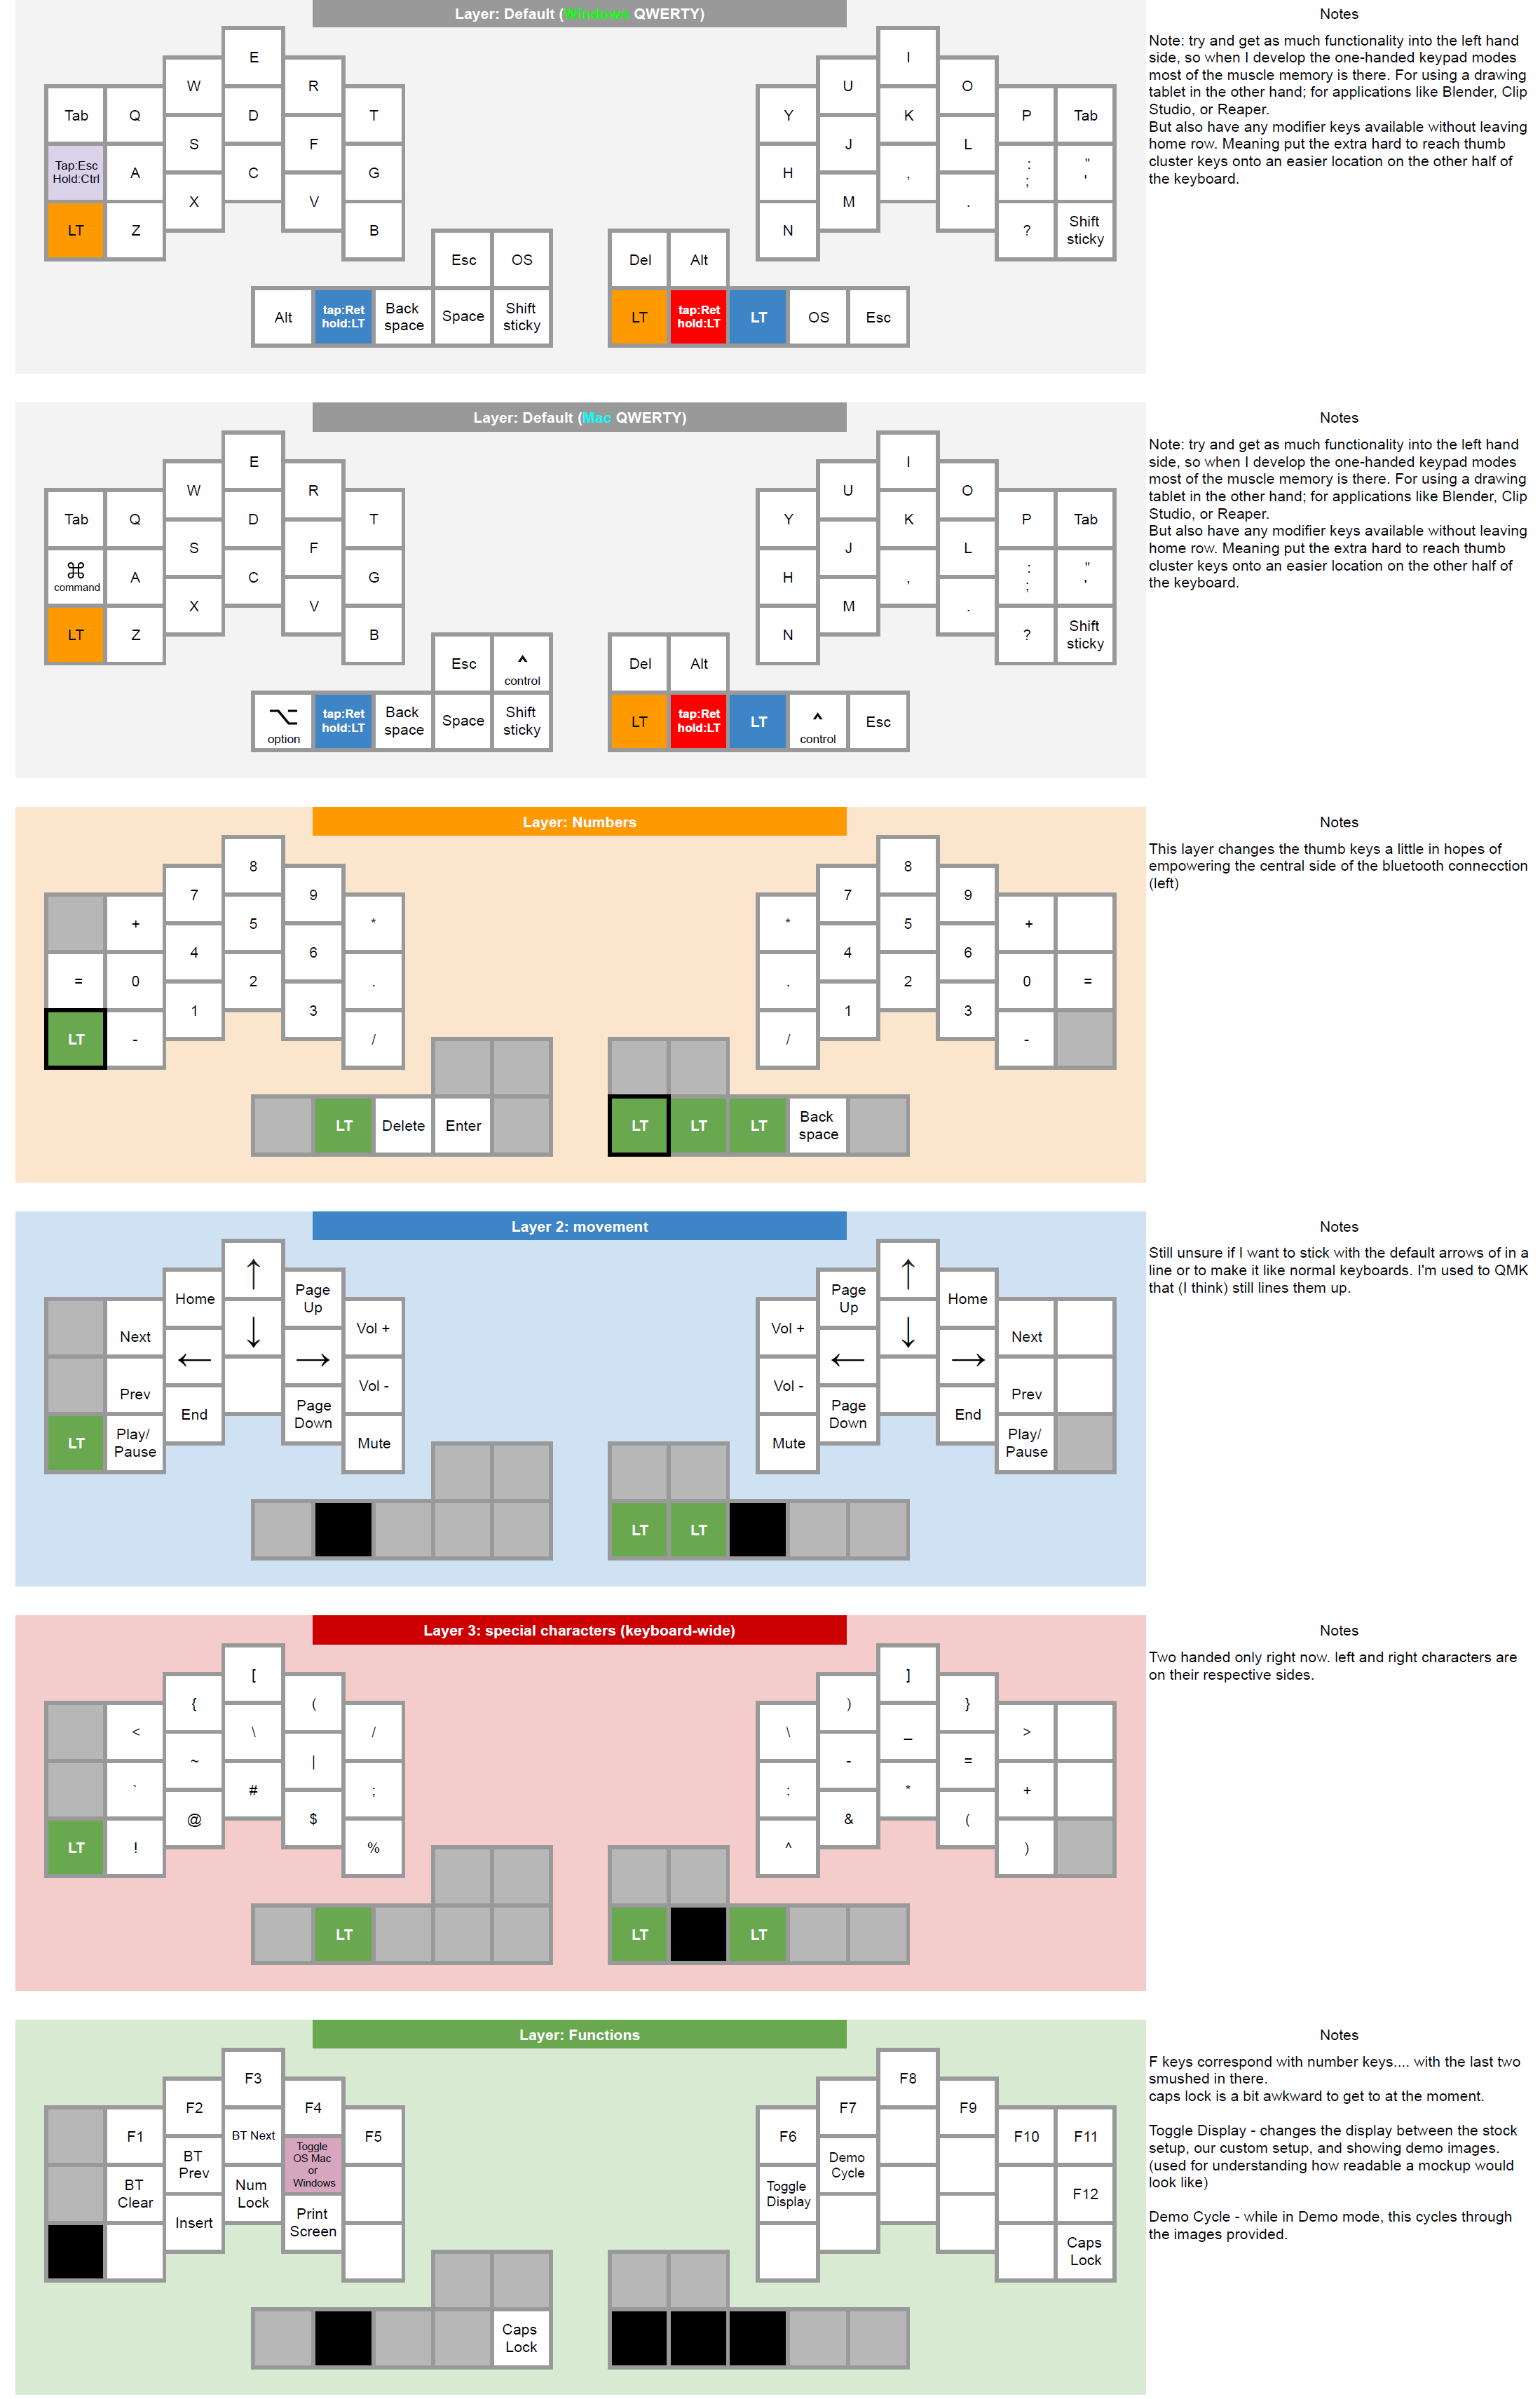
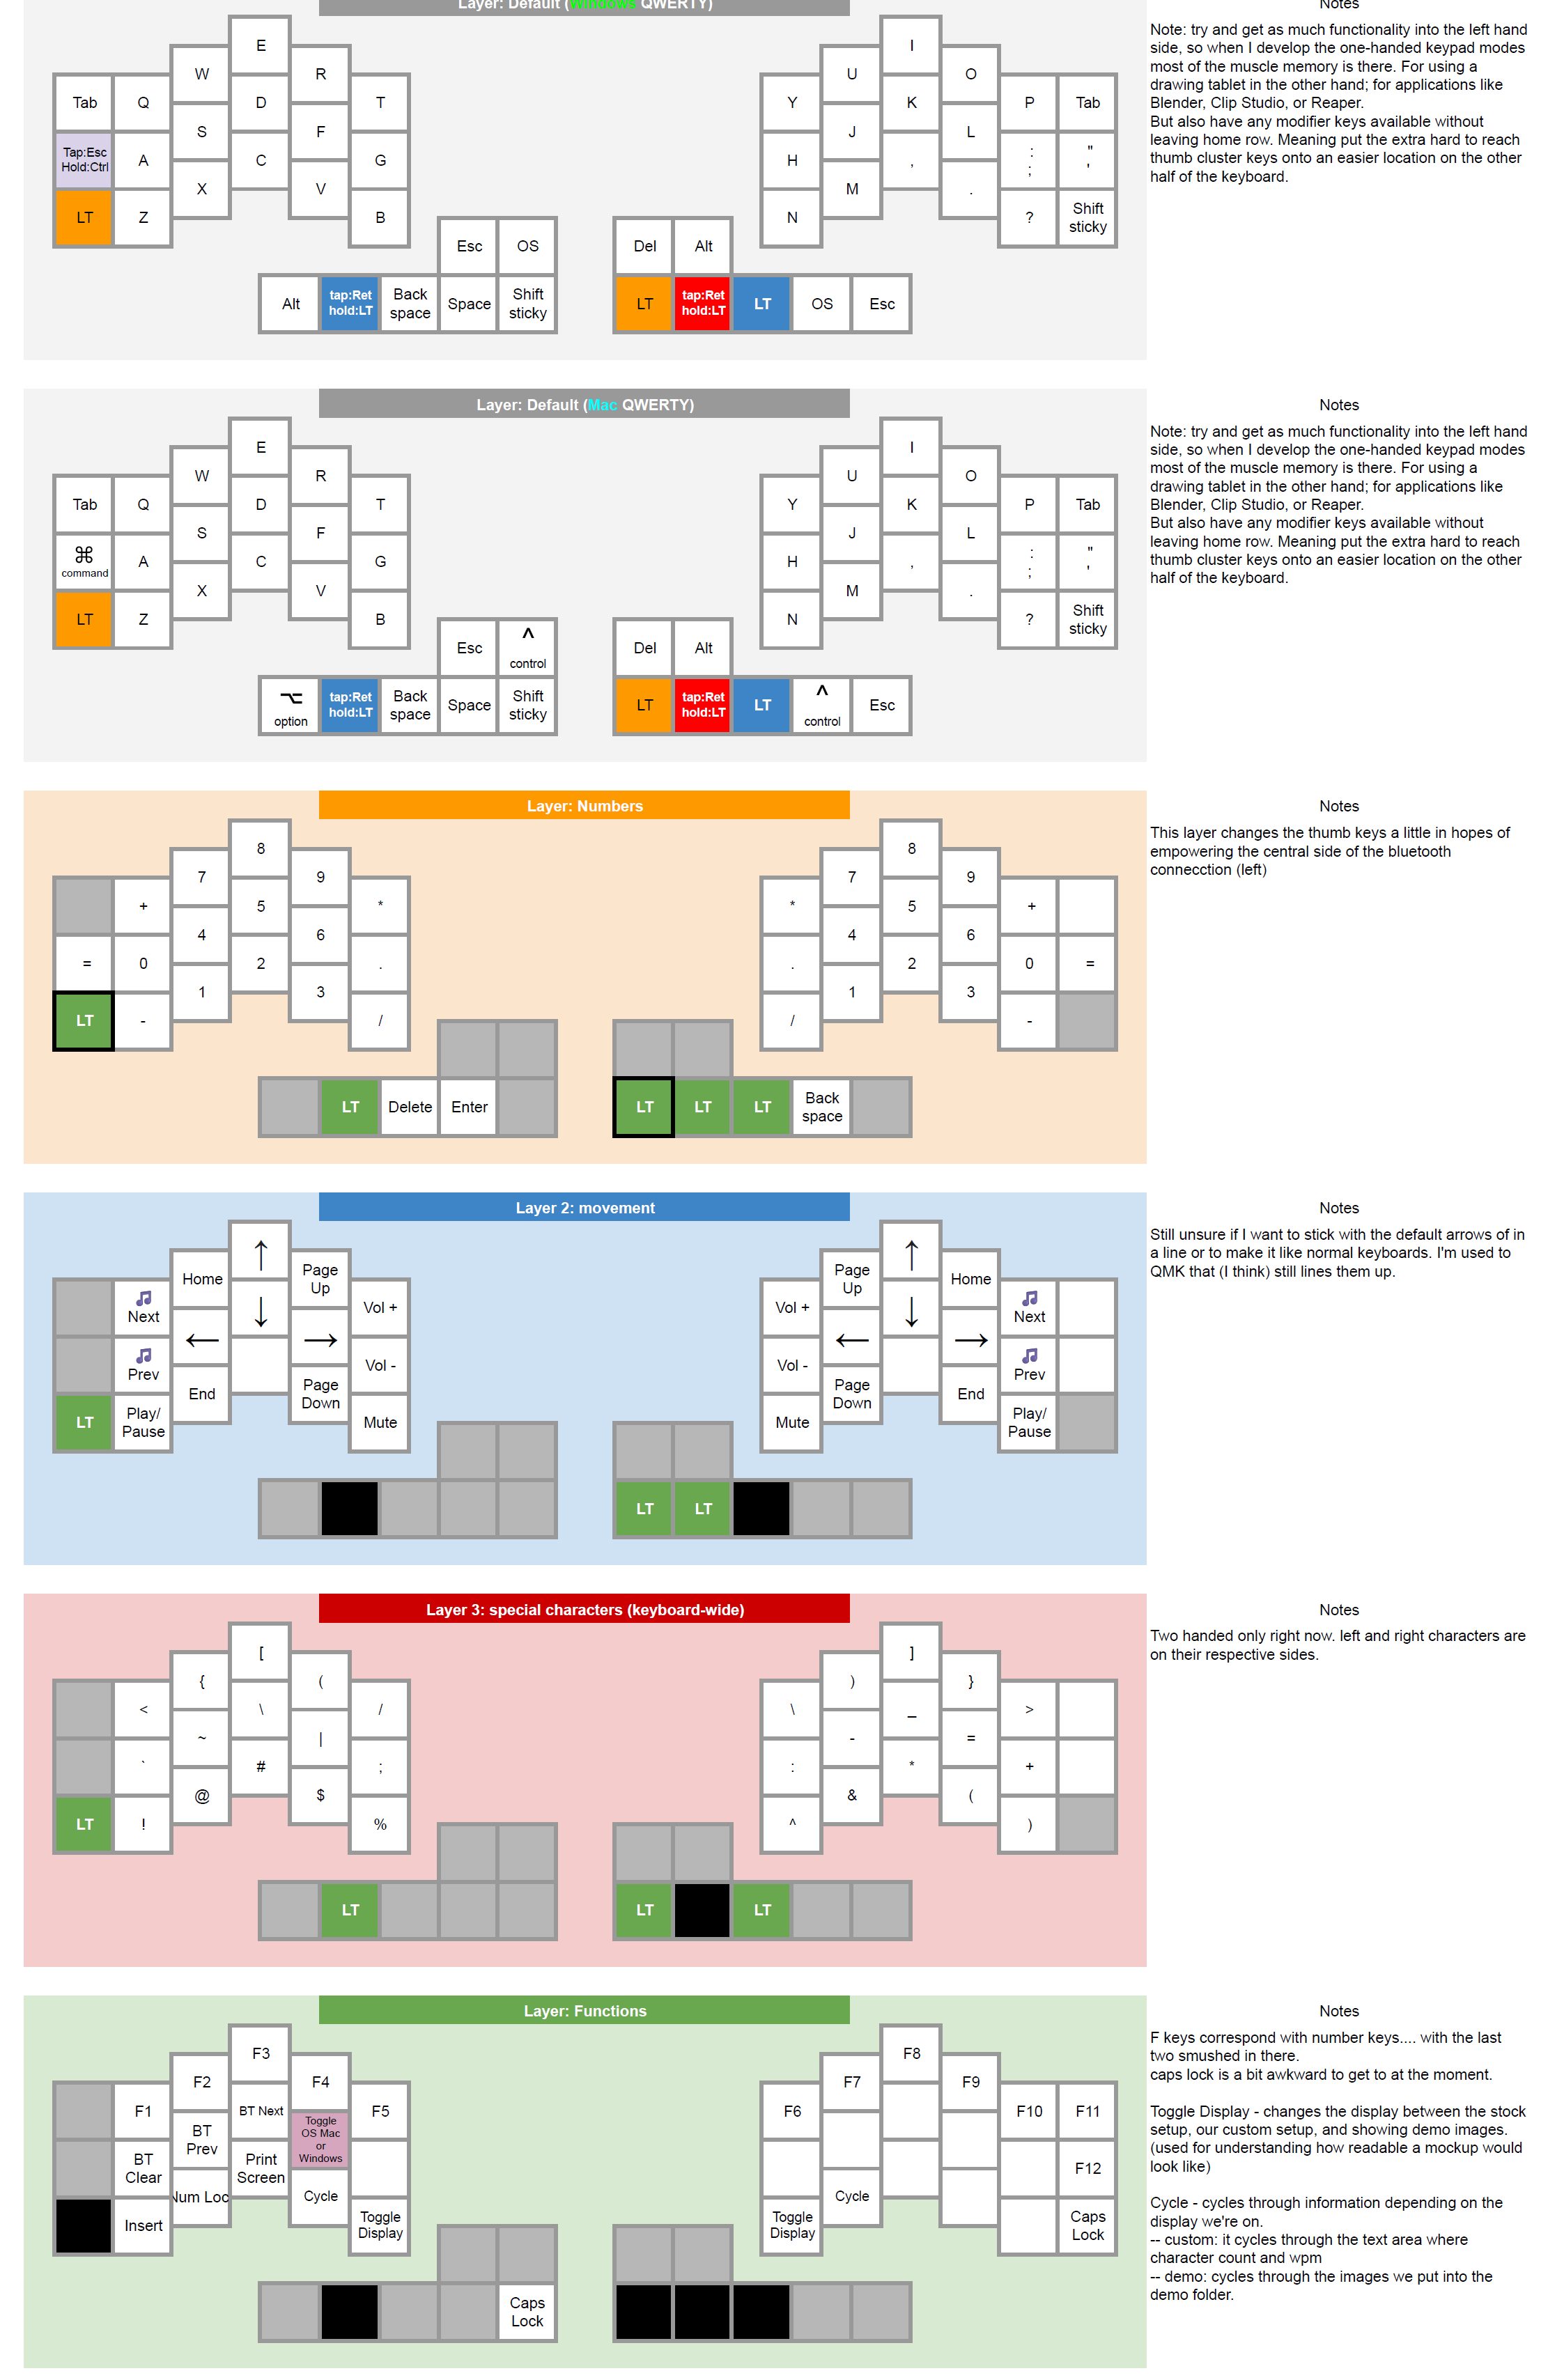
clean up documentation for release

Changed region(s): [[0.0, 0.0, 0.9904, 1.0]]

diff --git a/README.md b/README.md
@@ -4,6 +4,12 @@ Personal ZMK firmware config for the [Kyria rev3](https://splitkb.com/kyria) wir
 
 ZMK is required for wireless split keyboard support on the Nice!Nano hardware.
 
+## Features
+
+- **Custom OLED display** — both halves show live keyboard status (layer, Bluetooth profile, battery %) rendered with a custom bitmap font and a set of inline icons
+- **Character count** — tracks keypresses per session with comma formatting and k/m/b suffixes for large numbers
+- **WPM estimate** — rolling 30-second window; idle time falls out naturally so it only reflects active typing; no keystroke content is stored. Formula: a "word" is counted each time a non-letter key follows a letter key (space, punctuation, Enter, etc.); `WPM = words_in_last_30s × 2`. This will read lower than a standard typing test if you type short words or use many special characters, and higher if you type long words with few separators. Window duration is configurable in `display_config.h`.
+
 ## Planned Uses
 
 - **Virtual pet** — a Tamagotchi-style creature living on the OLED displays, fed by keypresses
@@ -11,14 +17,16 @@ ZMK is required for wireless split keyboard support on the Nice!Nano hardware.
 
 ## Keyboard Layout
 
-![Kyria keyboard mapping legend](kyria_keyboard_mapping_legend.png)
+<img src="kyria_keyboard_mapping_legend.png" width="720">
 
-![Kyria keyboard mapping](kyria_keyboard_mapping.png)
+<img src="kyria_keyboard_mapping.png" width="720">
 
 
 ## Custom Display Module
 
 The firmware includes a custom Zephyr module (`display_module/`) that extends the OLED displays beyond ZMK's default widgets.
+
+<img src="display_right.jpg" width="350"> <img src="display_left.jpg" width="350">
 
 ### Display states
 